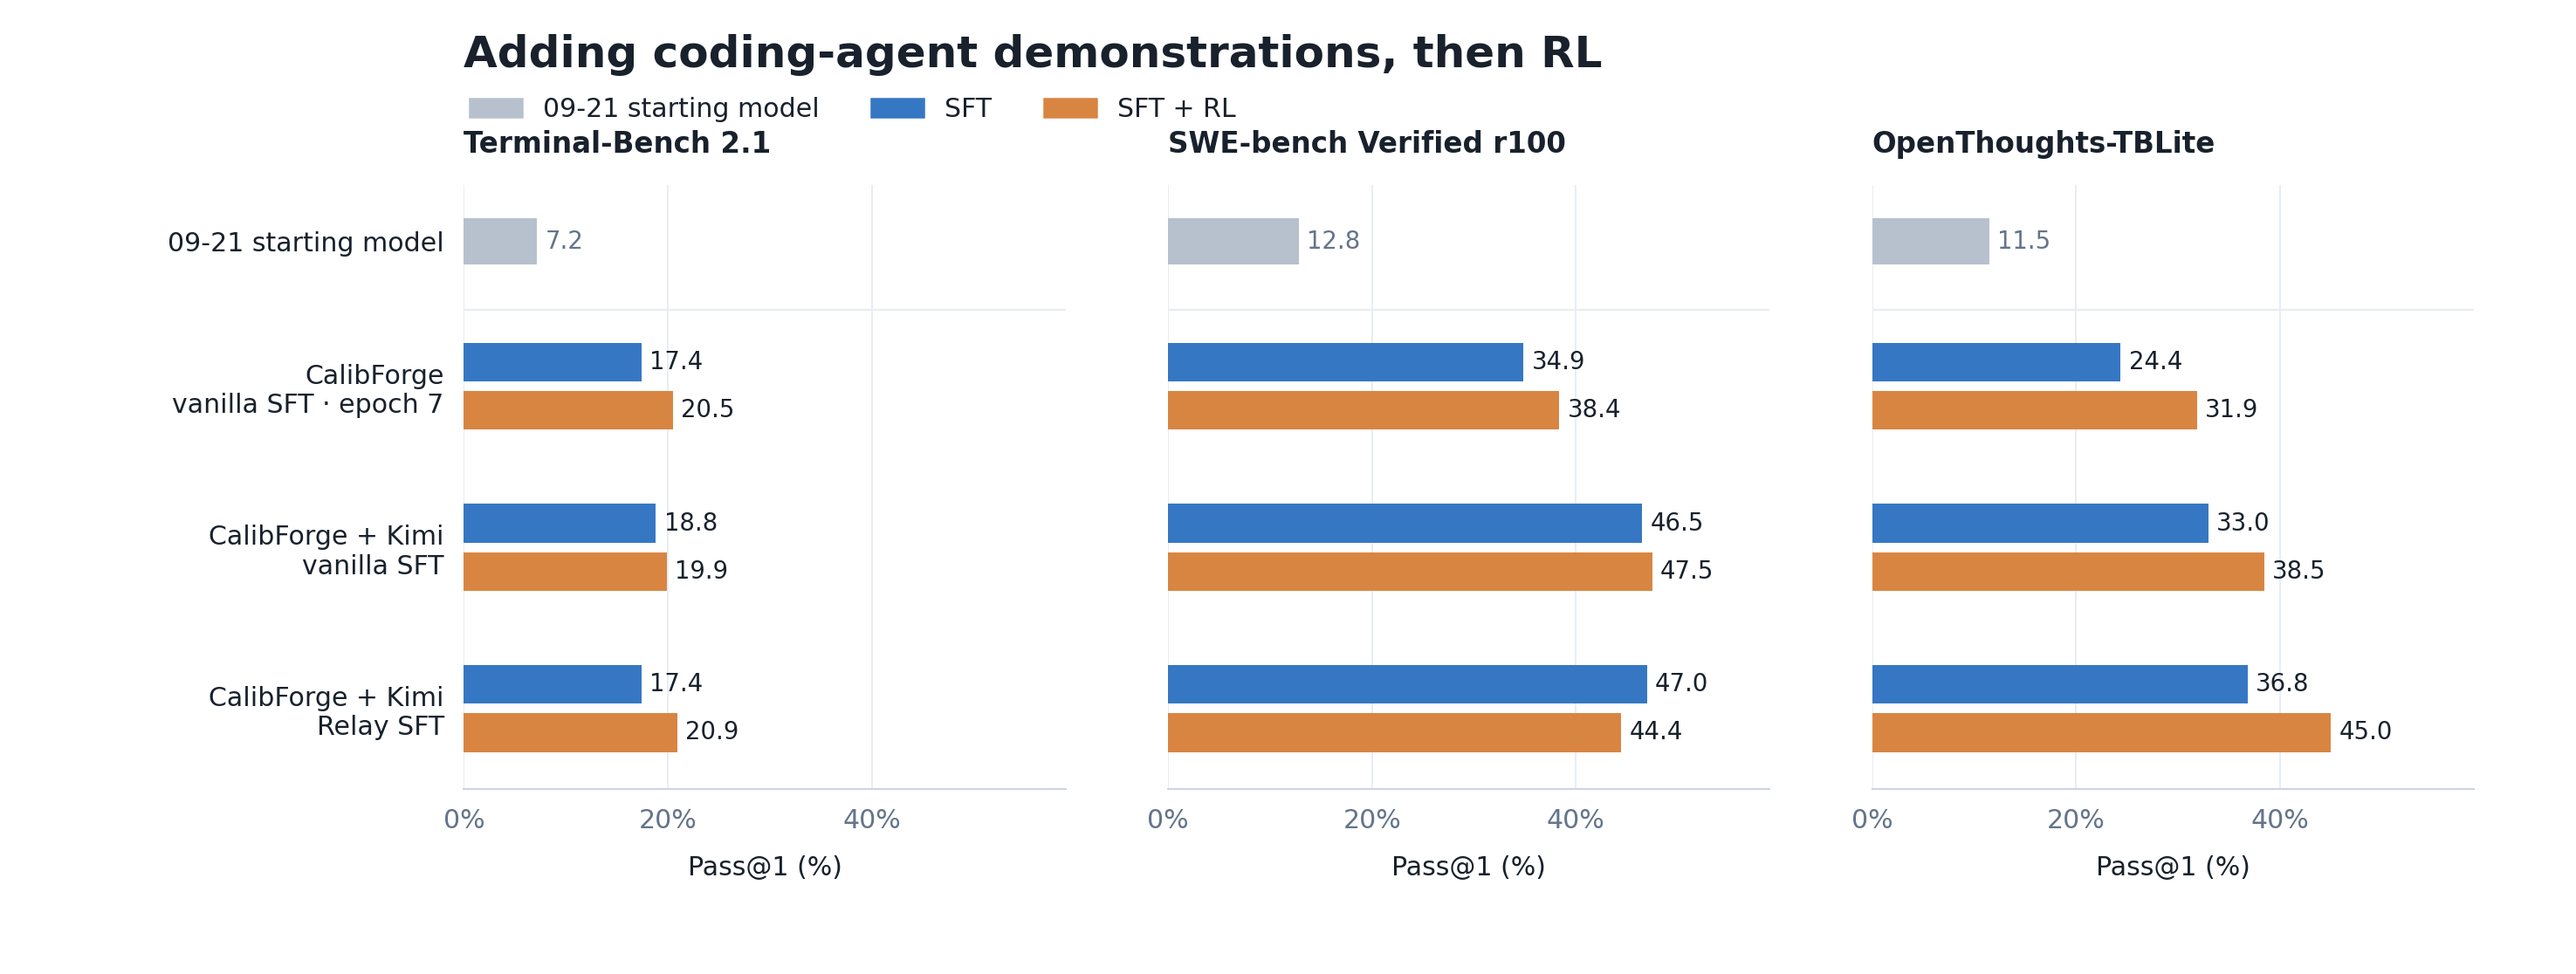
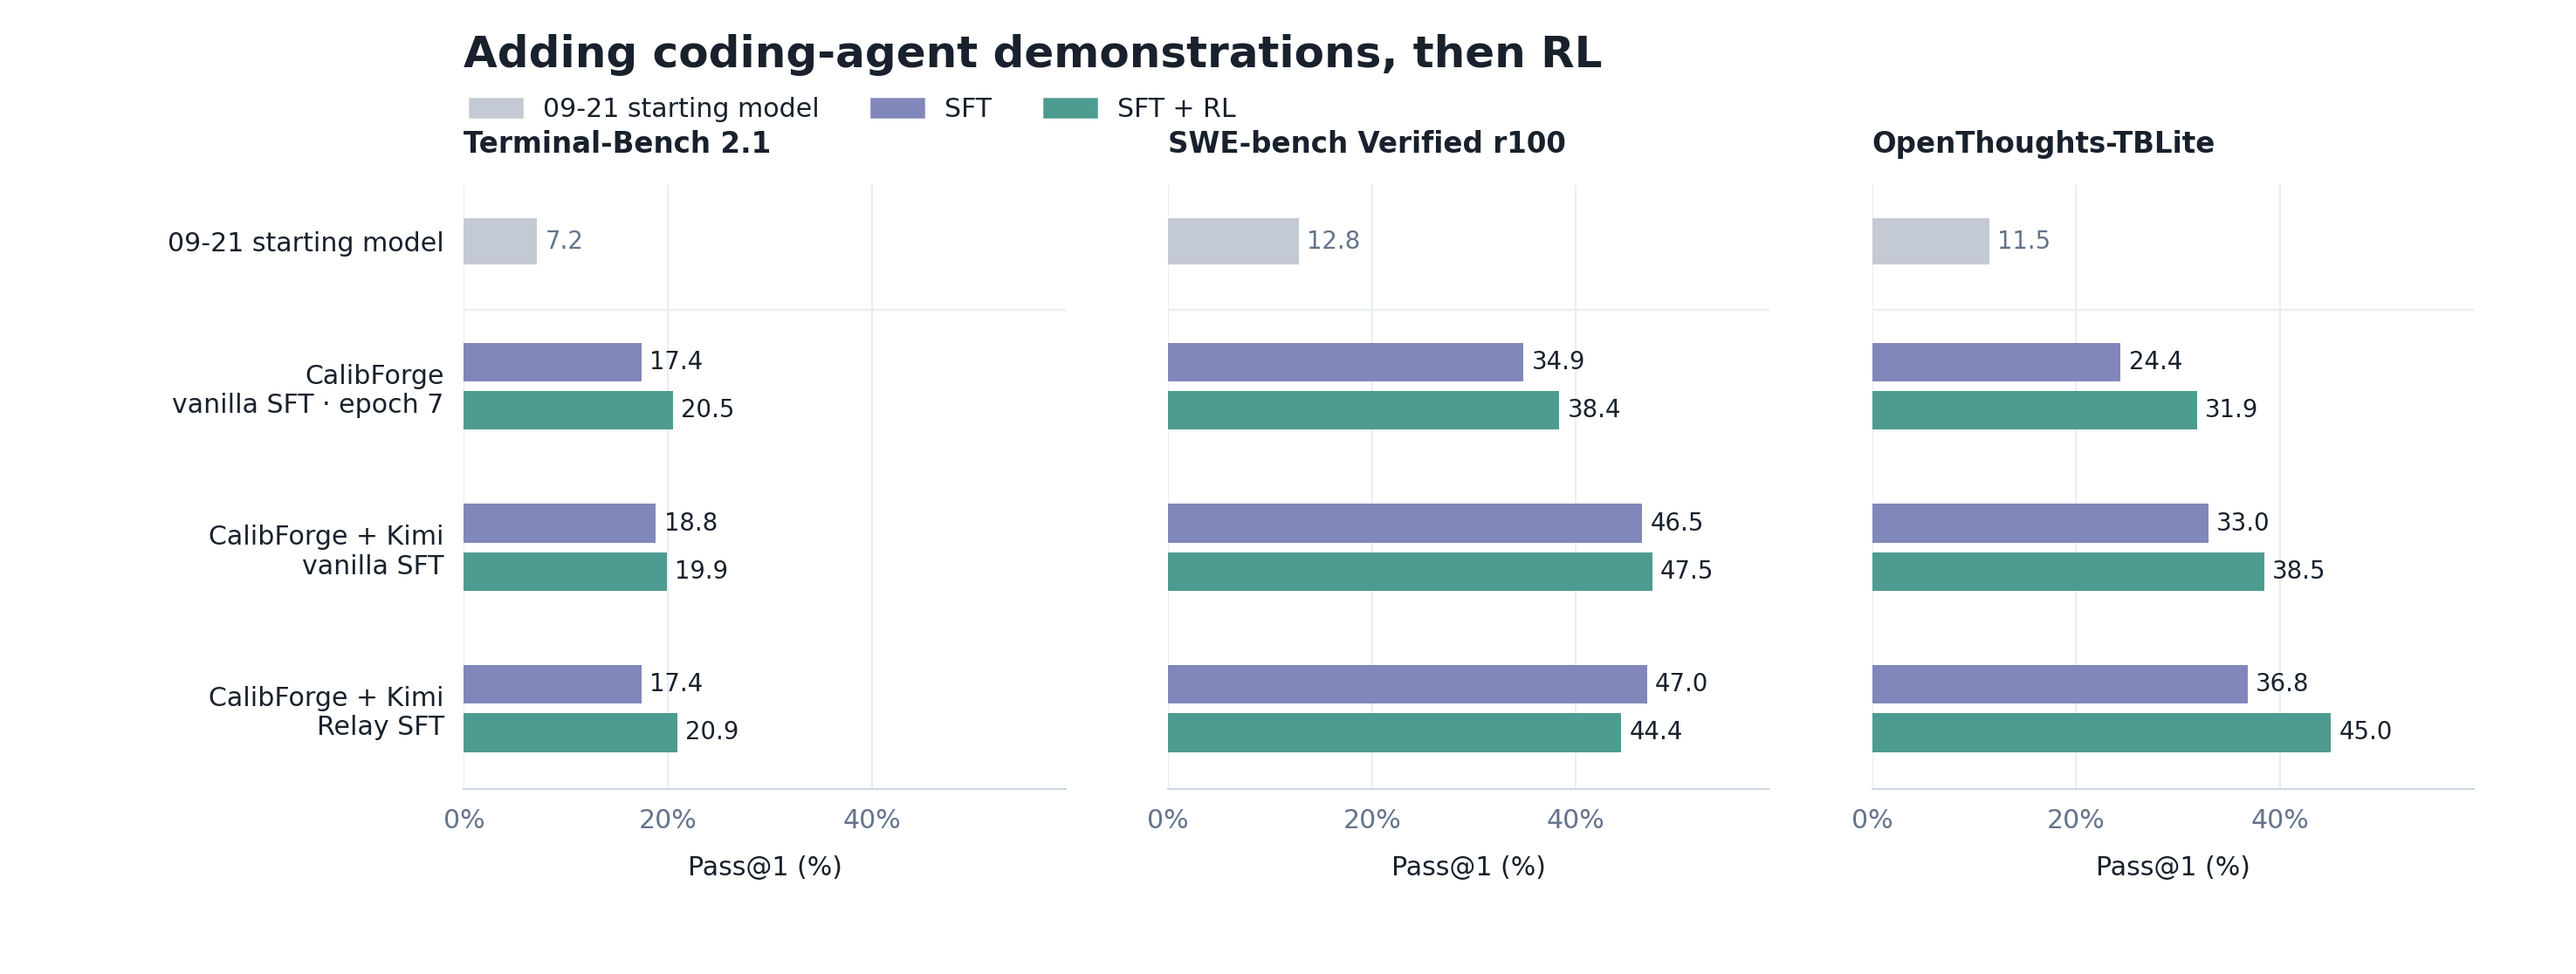
Use muted indigo and teal for SFT comparison

diff --git a/_posts/2026-10-21-turning-snowball-into-a-coding-agent.md b/_posts/2026-10-21-turning-snowball-into-a-coding-agent.md
@@ -246,8 +246,8 @@ We probed the vanilla CalibForge epoch-7 model eight times per task and selected
 The RL runs used the same core recipe: batches of 64 tasks with eight attempts each, a learning rate of 5e-7, and a 64k context window. The figure compares the 09-21 starting model with each additional SFT recipe and its RL continuation. Vanilla denotes ordinary teacher-demonstration SFT.
 
 <figure class="research-figure">
-<a href="{{ '/assets/img/snowball/sft-rl-stages.png' | relative_url }}"><img src="{{ '/assets/img/snowball/sft-rl-stages.png' | relative_url }}" alt="Across three benchmarks, the 09-21 starting model is shown in gray, three additional SFT recipes in blue, and each recipe followed by RL in orange. TBLite scores rise after RL in all three recipes, while SWE-bench changes are mixed." width="2951" height="1116" loading="lazy"></a>
-<figcaption>Pass@1 point estimates with Terminus-2. “Starting model” is the 09-21 general-SFT checkpoint. Orange bars follow 30 RL updates. Two evaluation repetitions per SFT/RL model, except three for the vanilla CalibForge SFT model. Scores use available scored attempts, so task coverage differs slightly. Paired uncertainty is discussed below. Results recorded October 27, 2026.</figcaption>
+<a href="{{ '/assets/img/snowball/sft-rl-stages.png?v=indigo-teal' | relative_url }}"><img src="{{ '/assets/img/snowball/sft-rl-stages.png?v=indigo-teal' | relative_url }}" alt="Across three benchmarks, the 09-21 starting model is shown in gray, three additional SFT recipes in muted indigo, and each recipe followed by RL in teal. TBLite scores rise after RL in all three recipes, while SWE-bench changes are mixed." width="2951" height="1116" loading="lazy"></a>
+<figcaption>Pass@1 point estimates with Terminus-2. “Starting model” is the 09-21 general-SFT checkpoint. Teal bars follow 30 RL updates. Two evaluation repetitions per SFT/RL model, except three for the vanilla CalibForge SFT model. Scores use available scored attempts, so task coverage differs slightly. Paired uncertainty is discussed below. Results recorded October 27, 2026.</figcaption>
 </figure>
 
 The clearest pattern was on TBLite: scores rose after RL for all three starting policies. On tasks scored for both models, the gains were 6.5 points for vanilla CalibForge, 5.6 for vanilla plus Kimi, and 8.9 for Relay plus Kimi. Only the last gain had a paired 95% bootstrap interval entirely above zero, at [+0.6, +17.2] points. The other two intervals included zero. This is encouraging early evidence that RL can add to these SFT policies, rather than an established improvement for every recipe.
